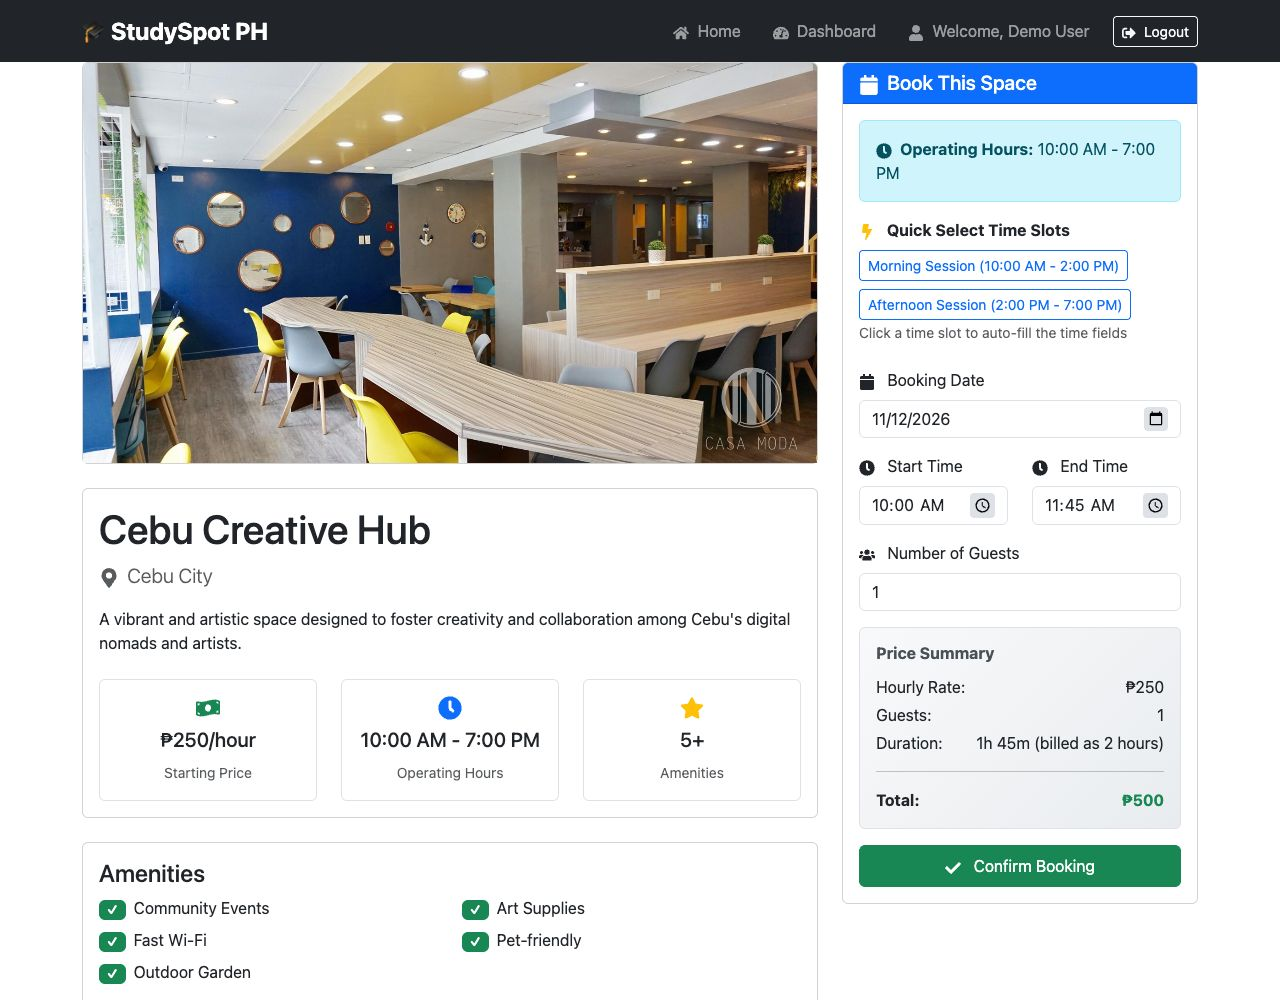
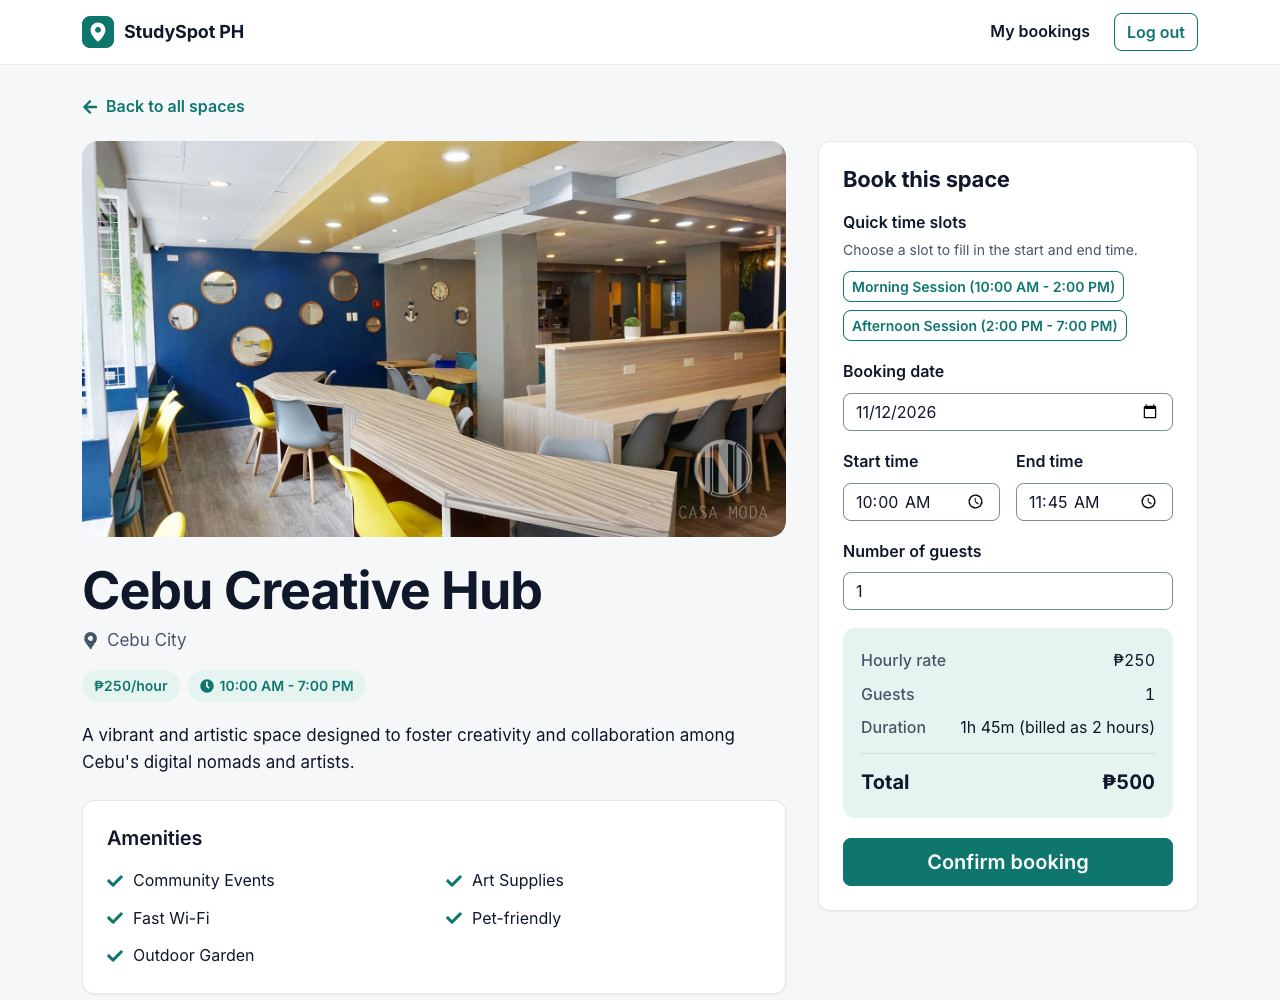
docs: update README and screenshots for v3
Retake the home, space page and My bookings screenshots for the new design and add a phone screenshot. Update the features, versions, test count and tech stack (Inter via Fontsource, OFL-1.1), and add a Design and accessibility section that lists only what was checked: the five widths and 200% zoom, touch targets, a keyboard-only run, an axe-core scan of every state, and the contrast ratios of the colour tokens.

diff --git a/README.md b/README.md
@@ -8,37 +8,42 @@ A study-space booking web app for the Philippines: browse spaces, check the hour
 
 Log in with any name and email to try booking. The login is simulated and all data stays in your browser.
 
-| Home | Space details and booking form | My Bookings |
+| Home | Space details and booking form | My bookings |
 |---|---|---|
-| ![Home page with the hero section](docs/screenshots/home.jpg) | ![Space detail page with the booking form and price summary](docs/screenshots/space-detail.jpg) | ![Dashboard showing one upcoming booking](docs/screenshots/dashboard.jpg) |
+| ![Home page with the hero, the stats and the start of the spaces list](docs/screenshots/home.jpg) | ![Space page with the booking form and a price summary of 1h 45m billed as 2 hours](docs/screenshots/space-detail.jpg) | ![My bookings page with a booking confirmation and one upcoming booking](docs/screenshots/dashboard.jpg) |
+
+On a phone (390px wide):
+
+<img src="docs/screenshots/mobile.jpg" alt="Top of the home page on a phone, with the menu button, hero text, buttons and photo" width="260">
 
 ## Features
 
-- Browse study spaces, with a featured selection on the home page
-- Search by name or location (after login)
-- Space details with amenities, operating hours and hourly rate
+- Browse study spaces: six on the home page when logged out, all of them after logging in
+- Search by name or city (after login), with a live count of the results
+- Space page with the photo, location, hourly rate, opening hours and amenities
 - Booking form with date, start and end time, number of guests, and quick time slots
 - Live price summary that updates as you change the time or guests
-- Form validation (React Hook Form + Yup)
+- Form validation (React Hook Form + Yup), with the messages shown next to each field
 - Overlap and zero-length checks, so the same space cannot be double-booked
 - One booking per space per user
-- Dashboard with upcoming and past bookings
-- Cancel a booking with a confirmation dialog
-- Protected route for the dashboard
+- My bookings page with upcoming and completed bookings and a confirmation message after booking
+- Cancel a booking from a confirmation dialog
+- Protected My bookings page; logging in brings you back to the page you came from
 - Bookings kept in the browser's `localStorage`
-- Responsive layout for phone, tablet and desktop
+- Responsive layout with a menu button on small screens
 - Page not found page for unknown addresses and unknown space ids
 
 ## Tech stack
 
 | Part | Tools |
 |---|---|
-| UI | React 19 (JavaScript), Vite 7 |
-| Routing | React Router 7 |
+| UI | React 19.1 (JavaScript), Vite 7.3 |
+| Routing | React Router 7.18 |
 | Forms | React Hook Form + Yup |
-| Styling | Bootstrap 5, react-icons, small per-component CSS files |
+| Styling | Bootstrap 5.3 (CSS only, no Bootstrap JavaScript), customised with design tokens in [`src/styles/theme.css`](src/styles/theme.css); react-icons; small per-component CSS files |
+| Font | Inter, self-hosted with [`@fontsource-variable/inter`](https://fontsource.org/fonts/inter) (SIL Open Font License 1.1) |
 | State | Context API (`AuthContext`, `BookingContext`) + a `useLocalStorage` hook |
-| Tests | Vitest (unit tests for the booking rules, quick time slots and home page stats) |
+| Tests | Vitest: 31 unit tests in 4 files (booking rules, date and time formatting, quick time slots, home page stats, time validation) |
 | Hosting | Vercel |
 
 ## Booking rules
@@ -50,6 +55,27 @@ The rules live as plain functions in [`src/utils/bookingTime.js`](src/utils/book
 - **Overlap:** a new booking is rejected if it overlaps any confirmed booking for the same space, by any user, on any date. Back-to-back bookings are allowed (one ends at 13:00, the next starts at 13:00).
 - **Overnight:** an end time earlier than the start time means the booking runs into the next day. This is only allowed for spaces open 24/7, and overnight bookings are included in the overlap check.
 - **Passes:** pass-style slots are billed the same way (hourly rate × hours × guests), so Full Day (24 hours) at ₱500/hour is ₱12,000 per guest.
+
+## Design and accessibility
+
+What was checked (November 2026), and how:
+
+- **Widths:** every page and state (home logged out and in, space page logged out, with the form and with an existing booking, login with errors, My bookings empty, with bookings, with the confirmation message and with the cancel dialog open, and the 404 page) at 320, 390, 768, 1024 and 1440px wide, plus 200% zoom on a 1280px window. No sideways scrolling; screenshots of each were reviewed.
+- **Touch targets:** buttons, links in the header and form fields are at least 44px tall below 768px.
+- **Keyboard:** a keyboard-only run at 390px and 1440px: skip link, menu, log in, search, open a space, pick a quick slot, enter the date, book with Enter, cancel a booking in the dialog, log out. Every focused element shows a visible focus ring.
+- **Automated scan:** [axe-core](https://github.com/dequelabs/axe-core) 4.14 (WCAG 2.0/2.1 A and AA rules plus best practices) on each of the states above reported no violations. An automated scan cannot find every problem; it does not replace testing with a screen reader, which has not been done.
+- **Colour contrast** of the design tokens (computed with the WCAG formula):
+
+  | Pair | Ratio |
+  |---|---|
+  | White text on the teal primary `#0F766E` | 5.47 |
+  | Body text `#0F172A` on white | 17.85 |
+  | Secondary text `#475569` on white / on the page background | 7.58 / 7.07 |
+  | Teal text on the light teal chip background | 4.84 |
+  | Input borders `#7C8DA3` on white | 3.39 |
+  | Success, error and warning text on their message backgrounds | 6.35, 5.75, 6.37 |
+
+- **Motion:** no movement on hover; smooth scrolling and transitions are switched off when the system asks for reduced motion.
 
 ## Run locally
 
@@ -73,12 +99,14 @@ The app is deployed on Vercel as a static site. [`vercel.json`](vercel.json) rew
 - Data lives only in the browser's `localStorage`, so bookings are not shared between devices or users.
 - The listings and photos are sample data.
 - There is no backend.
+- Light theme only.
 
 ## Future improvements
 
 - Reschedule a booking (the missing "Update" in CRUD)
 - A real backend and authentication
-- More tests
+- More tests, including component tests
+- Smaller image versions for phones
 
 ## Credits
 
